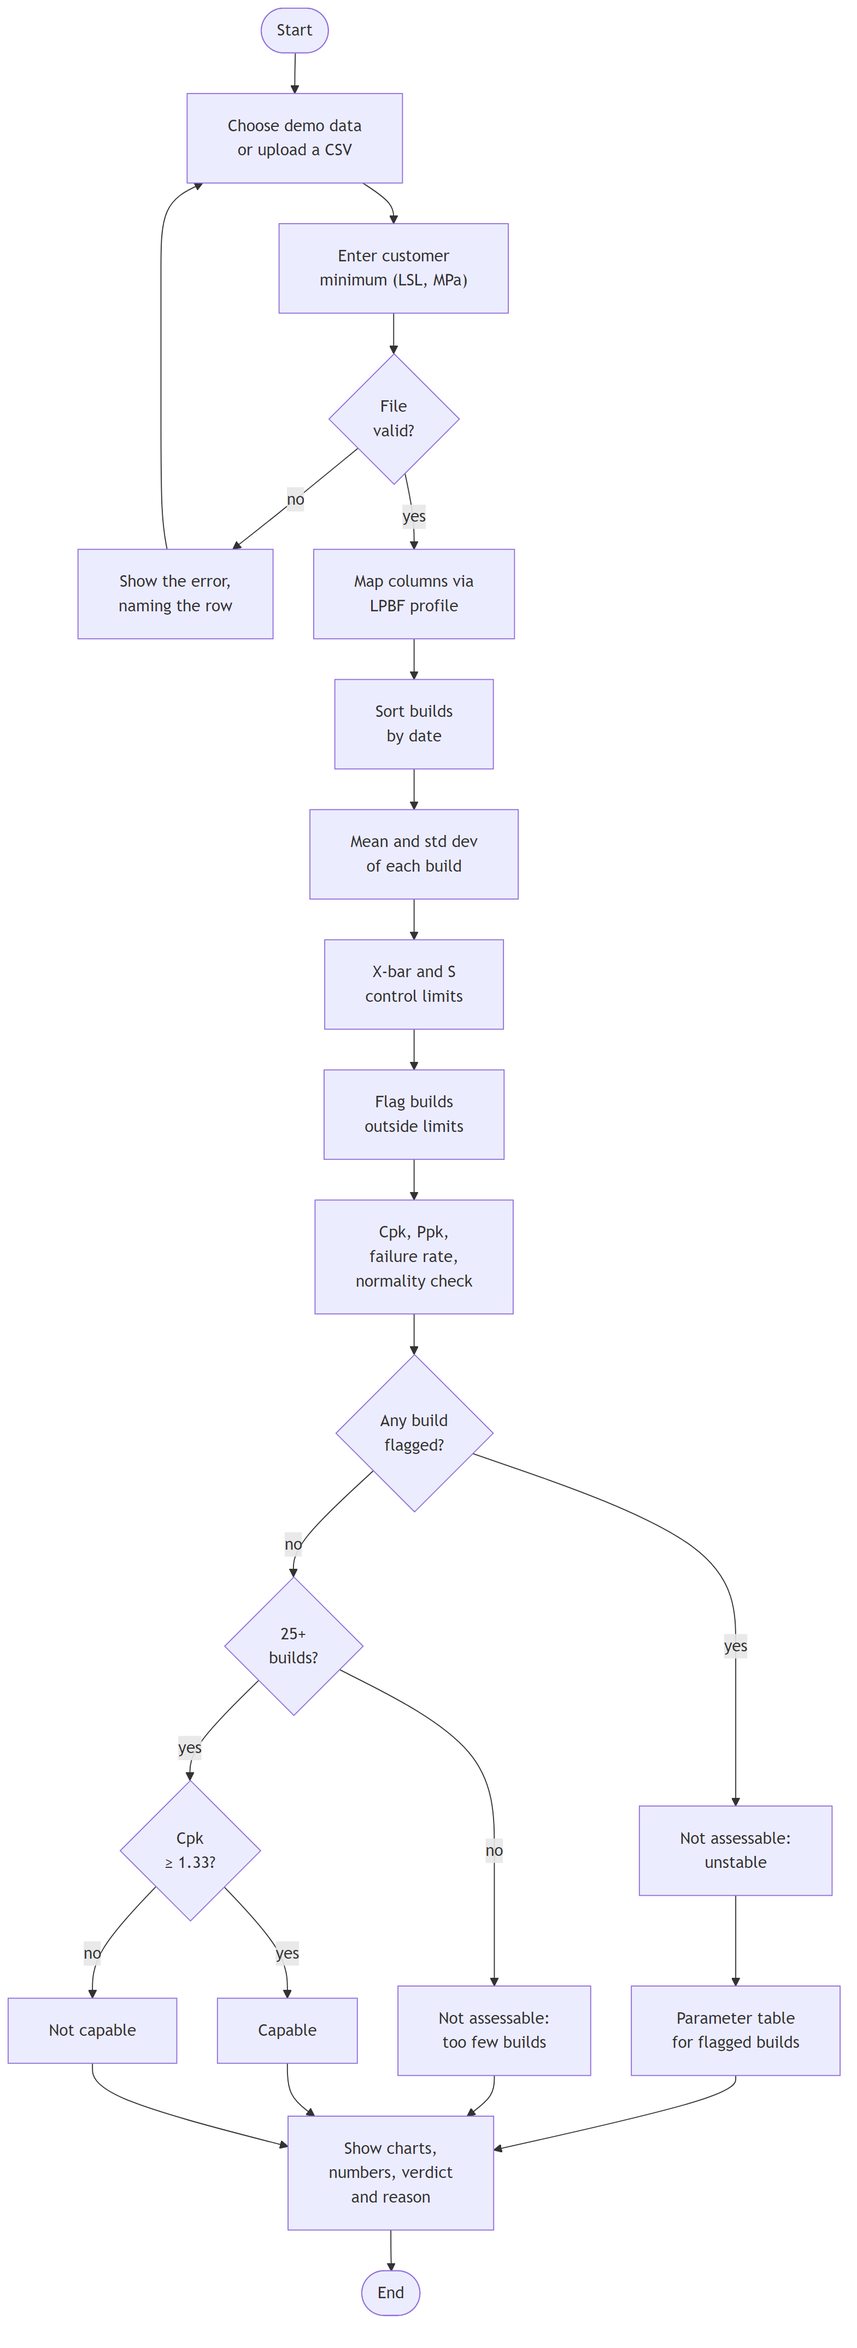
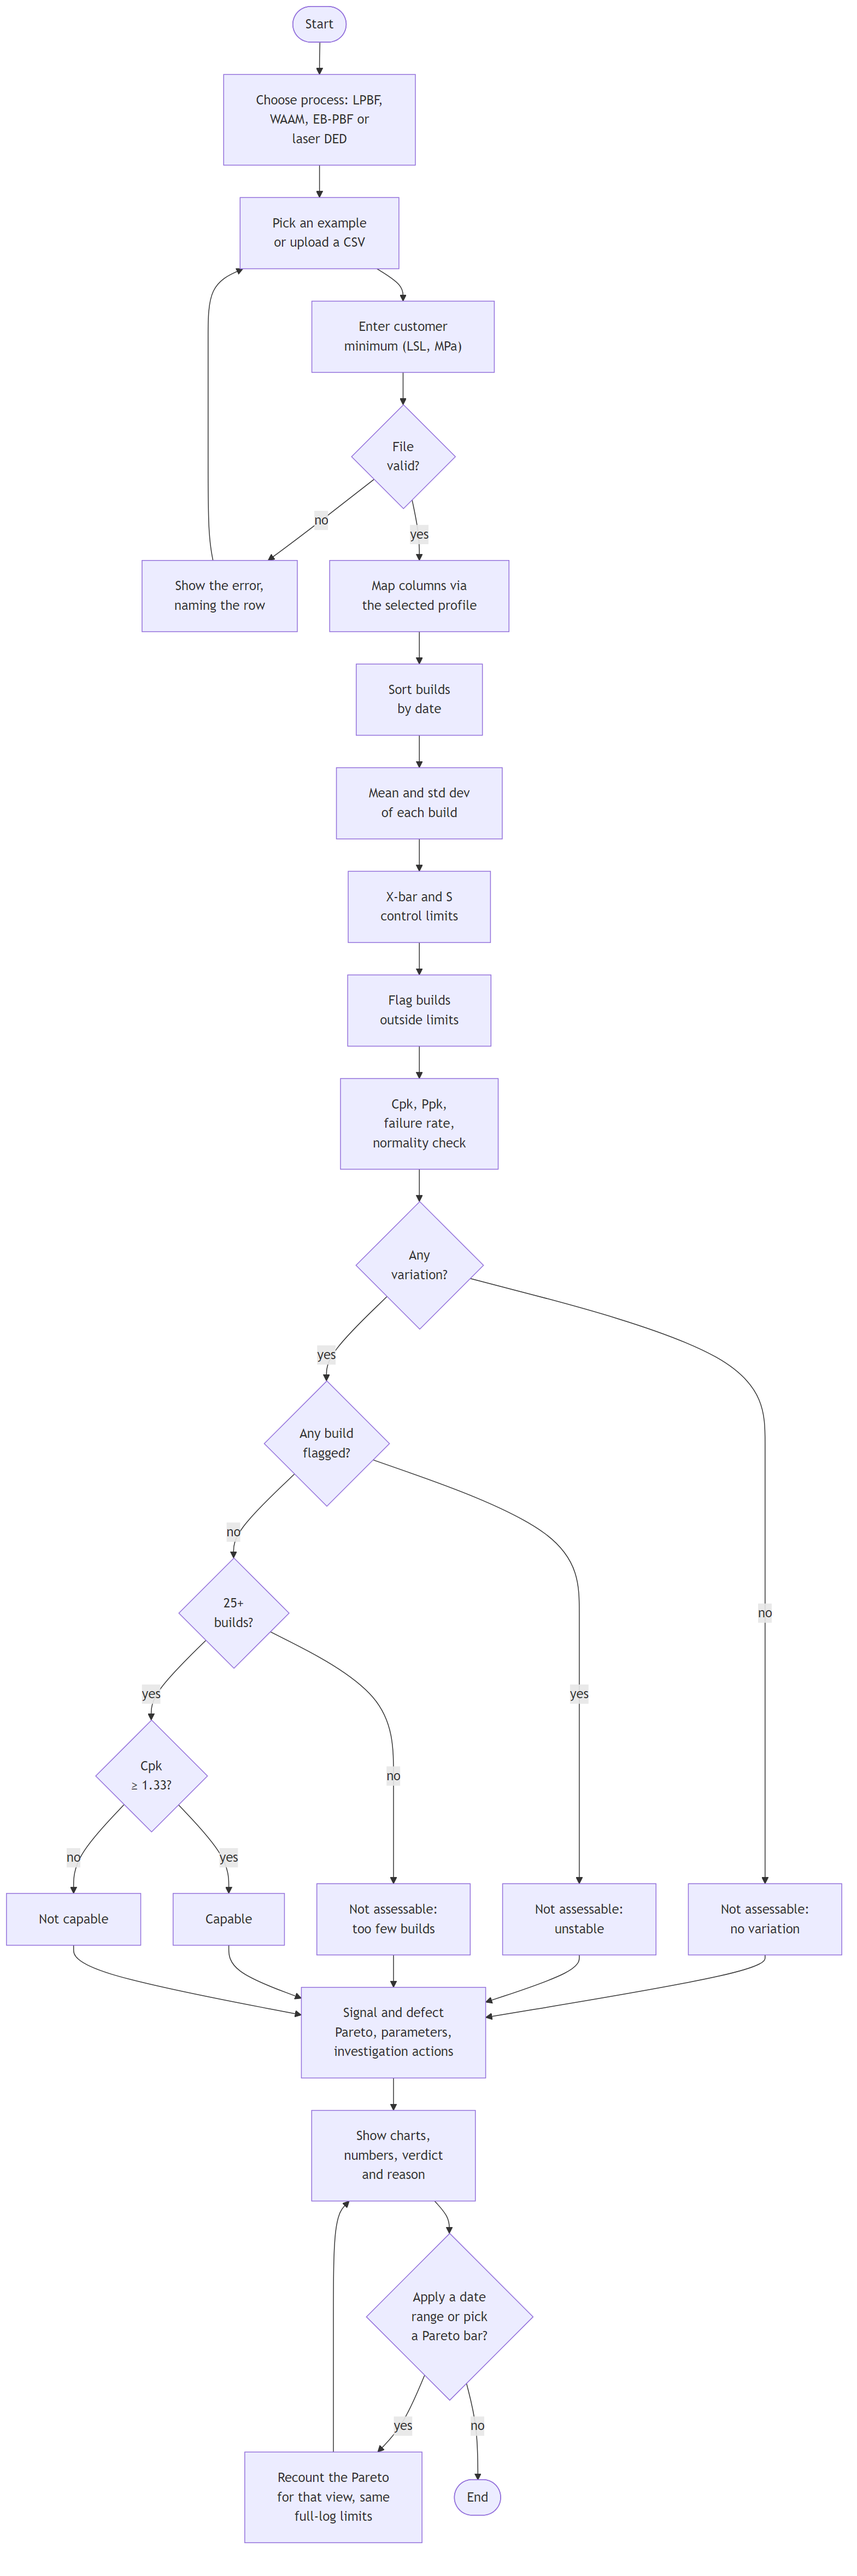
docs: update diagrams to the current app; contributions from Git history

diff --git a/docs/architecture.md b/docs/architecture.md
@@ -1,24 +1,19 @@
 # How AeroQual works
 
-## Current documentation and training surface
+Sigma Airlines · updated 2026-10-22 (release 1 plus the approved extensions H-10 to H-17)
+
+Pictures of the same app: who uses it ([use cases](#1-use-case-diagram)), what it does step by
+step ([activity diagram](#2-activity-diagram)), and which function belongs to which part of the code
+([FFBD](#3-functional-flow-block-diagram-ffbd)). [Section 4](#4-subsystems-and-who-built-them)
+maps each subsystem to its CONTRACT tasks and the teammates who built it. Details live in
+[`SPEC.md`](../SPEC.md); reasons in [`decisions.md`](decisions.md).
 
 The [offline walkthrough](../demo/slidedeck/index.html) is a documentation artifact outside `app/`.
 `demo/build_slidedeck.py` captures verified API outputs and exact synthetic CSVs into `deck-data.json`,
 then inlines the template, styles, JavaScript and data into one HTML file. It has no external library,
 network dependency or browser-side QC calculation. Actual uploads remain in the React/FastAPI app.
-The deck does not change the runtime bundle or deployment configuration. Current evidence and
-open-ended release gates are in [evaluation.md](evaluation.md) and [remaining-work.md](remaining-work.md).
-
-The diagrams below describe the original application foundation. Approved four-process/Pareto
-extensions are documented later in this file and in SPEC; original teammate mappings are historical.
-
-Sigma Airlines · release 1 · 2026-10-19
-
-Three pictures of the same app: who uses it ([use cases](#1-use-case-diagram)), what it does step by
-step ([activity diagram](#2-activity-diagram)), and which function belongs to which subsystem
-([FFBD](#3-functional-flow-block-diagram-ffbd)). The [subsystem table](#4-subsystems-and-who-builds-them)
-maps each subsystem to a CONTRACT task and a teammate. Details live in [`SPEC.md`](../SPEC.md);
-reasons in [`decisions.md`](decisions.md).
+Current evidence and open release gates are in [evaluation.md](evaluation.md) and
+[remaining-work.md](remaining-work.md).
 
 Each diagram has an image link under it, in case GitHub draws the Mermaid code badly. The images
 are exported from the code: after editing a diagram, regenerate its image with
@@ -27,81 +22,90 @@ are exported from the code: after editing a diagram, regenerate its image with
 ## 1. Use case diagram
 
 ```mermaid
-%%{init: {"flowchart": {"padding": 20, "nodeSpacing": 30, "rankSpacing": 70}}}%%
+%%{init: {"flowchart": {"padding": 20, "nodeSpacing": 22, "rankSpacing": 60}}}%%
 flowchart LR
     QE["Quality<br>engineer"]
-    JU["Judge or<br>reviewer"]
-    PE["Process engineer<br>(future)"]
 
     subgraph AQ["AeroQual"]
-        UC1(["Upload build<br>test data"])
+        direction TB
+        UC0(["Choose printing<br>process"])
+        UC1(["Upload build test<br>data or pick example"])
         UC2(["Enter customer<br>minimum strength"])
         UC3(["Check stability<br>(control charts)"])
         UC4(["Check capability<br>(Cpk, Ppk)"])
         UC5(["See coupon<br>failure rate"])
-        UC6(["Investigate<br>flagged builds"])
-        UC7(["Run the demo<br>datasets"])
-        UC8(["Add a printing<br>process profile"])
+        UC6(["Rank chart signals<br>and defects (Pareto)"])
+        UC7(["Follow investigation<br>actions"])
+        UC8(["Narrow to a<br>date range"])
+        UC9(["Run the example<br>datasets"])
+        UC10(["Work through the<br>offline tutorial"])
+        UC11(["Add a process<br>profile"])
     end
 
-    QE --- UC1
-    QE --- UC2
-    QE --- UC3
-    QE --- UC4
-    QE --- UC5
-    QE --- UC6
-    JU --- UC7
-    PE -.- UC8
-    UC7 -. includes .-> UC3
-    UC7 -. includes .-> UC4
+    JU["Judge or<br>reviewer"]
+    DEV["Developer"]
+
+    QE --- UC0 & UC1 & UC2 & UC3 & UC4 & UC5 & UC6 & UC7 & UC8
+    UC9 --- JU
+    UC10 --- JU
+    UC11 --- DEV
 ```
 
 [Open this diagram as an image](images/diagram-use-case.png)
 
-The quality engineer is the one user release 1 is built for. Judges use the same page through the
-demo datasets. Adding a process profile is a future use case (dashed); release 1 only makes it
-cheap.
+The quality engineer is the user the tool is built for. Judges use the same dashboard through the
+example datasets, or the offline tutorial. A developer adds a printing process by writing one profile
+file in `app/profiles/` and registering it; four exist (LPBF, WAAM, EB-PBF, powder-fed laser DED).
 
 ## 2. Activity diagram
 
 ```mermaid
 %%{init: {"flowchart": {"padding": 20, "nodeSpacing": 40, "rankSpacing": 40}}}%%
 flowchart TD
-    S([Start]) --> A1["Choose demo data<br>or upload a CSV"]
+    S([Start]) --> A0["Choose process: LPBF,<br>WAAM, EB-PBF or<br>laser DED"]
+    A0 --> A1["Pick an example<br>or upload a CSV"]
     A1 --> A2["Enter customer<br>minimum (LSL, MPa)"]
     A2 --> D1{"File<br>valid?"}
     D1 -- no --> E1["Show the error,<br>naming the row"]
     E1 --> A1
-    D1 -- yes --> A3["Map columns via<br>LPBF profile"]
+    D1 -- yes --> A3["Map columns via<br>the selected profile"]
     A3 --> A4["Sort builds<br>by date"]
     A4 --> A5["Mean and std dev<br>of each build"]
     A5 --> A6["X-bar and S<br>control limits"]
     A6 --> A7["Flag builds<br>outside limits"]
     A7 --> A8["Cpk, Ppk,<br>failure rate,<br>normality check"]
-    A8 --> D2{"Any build<br>flagged?"}
+    A8 --> D0{"Any<br>variation?"}
+    D0 -- no --> V0["Not assessable:<br>no variation"]
+    D0 -- yes --> D2{"Any build<br>flagged?"}
     D2 -- yes --> V1["Not assessable:<br>unstable"]
     D2 -- no --> D3{"25+<br>builds?"}
     D3 -- no --> V2["Not assessable:<br>too few builds"]
     D3 -- yes --> D4{"Cpk<br>≥ 1.33?"}
     D4 -- yes --> V3["Capable"]
     D4 -- no --> V4["Not capable"]
-    V1 --> A9["Parameter table<br>for flagged builds"]
-    A9 --> A10["Show charts,<br>numbers, verdict<br>and reason"]
-    V2 --> A10
-    V3 --> A10
-    V4 --> A10
-    A10 --> F([End])
+    V0 --> A9
+    V1 --> A9
+    V2 --> A9
+    V3 --> A9
+    V4 --> A9
+    A9["Signal and defect<br>Pareto, parameters,<br>investigation actions"] --> A10["Show charts,<br>numbers, verdict<br>and reason"]
+    A10 --> D5{"Apply a date<br>range or pick<br>a Pareto bar?"}
+    D5 -- yes --> A11["Recount the Pareto<br>for that view, same<br>full-log limits"]
+    A11 --> A10
+    D5 -- no --> F([End])
 ```
 
 [Open this diagram as an image](images/diagram-activity.png)
 
-"File valid?" checks four things: the required columns are present, no `uts_mpa` is blank, every
-build has the same number of coupons, and there are at least 2 builds. Every path ends with the
-numbers on screen. Only the verdict changes, and it always says why.
+"File valid?" checks the required columns, that no `uts_mpa` is blank or non-numeric, that every
+build has one date and the same number of coupons, that there are at least 2 builds, and that the
+data match the chosen process. Every path ends with the numbers on screen. Only the verdict
+changes, and it always says why. A date range or a Pareto selection changes only the investigation
+view: limits, Cpk, Ppk and the verdict always come from the complete file.
 
 ## 3. Functional flow block diagram (FFBD)
 
-Top level. Each block is a function; its colour is the subsystem that owns it (section 4).
+Top level. Each block is a function; its colour is the part of the code that owns it.
 
 ```mermaid
 %%{init: {"flowchart": {"padding": 20, "nodeSpacing": 30, "rankSpacing": 40}}}%%
@@ -110,20 +114,26 @@ flowchart LR
     F2 --> F3["3.0<br>Map via<br>profile"]
     F3 --> F4["4.0<br>Compute<br>statistics"]
     F4 --> F5["5.0<br>Decide<br>verdict"]
-    F5 --> F6["6.0<br>Investigation<br>table"]
+    F5 --> F6["6.0<br>Investigation<br>evidence"]
     F6 --> F7["7.0<br>Display<br>results"]
+    F7 -. optional .-> F8["8.0<br>Filtered<br>view"]
+    F8 -.-> F7
 
     classDef ui fill:#e7f1fb,stroke:#4a78b5,color:#000
     classDef api fill:#f9eeda,stroke:#b5874a,color:#000
     classDef stats fill:#e5f4e4,stroke:#4a9a52,color:#000
+    classDef helper fill:#f0e9f7,stroke:#7a5aa8,color:#000
     class F1,F7 ui
-    class F2,F3,F6 api
+    class F2,F3 api
     class F4,F5 stats
+    class F6,F8 helper
 ```
 
 [Open this diagram as an image](images/diagram-ffbd.png)
 
-Blue = front end · amber = API and profile · green = statistics engine.
+Blue = front end (`app/frontend/`) · amber = API and process profiles (`app/app.py`,
+`app/profiles/`) · green = statistics engine (`app/qc.py`) · purple = descriptive investigation
+helpers (plain Python, no new statistics).
 
 Function 4.0 broken down (all inside `app/qc.py`, no web code):
 
@@ -145,26 +155,55 @@ flowchart LR
 The constants in 4.2 are c4, A3, B3 and B4, computed from the number of coupons per build. The
 normality check in 4.7 is a Shapiro-Wilk test.
 
-## 4. Subsystems and who builds them
+Functions 6.0 and 8.0 broken down. They count and describe; they never change a limit or an index:
 
-| Subsystem | Functions | CONTRACT task | Files it owns | Teammate |
+```mermaid
+%%{init: {"flowchart": {"padding": 20, "nodeSpacing": 30, "rankSpacing": 50}}}%%
+flowchart LR
+    R["5.0<br>Verdict and<br>full-log limits"] --> H1["6.1<br>Signal Pareto<br>signals.py"]
+    R --> H2["6.2<br>Inspection Pareto<br>inspection.py"]
+    R --> H3["6.3<br>Parameter summary<br>app.py"]
+    R --> H4["6.4<br>Investigation actions<br>investigation.py"]
+    H1 --> H5["8.0<br>Date-window and<br>selection views<br>pareto_view.py"]
+    H2 --> H5
+
+    classDef stats fill:#e5f4e4,stroke:#4a9a52,color:#000
+    classDef helper fill:#f0e9f7,stroke:#7a5aa8,color:#000
+    class R stats
+    class H1,H2,H3,H4,H5 helper
+```
+
+[Open this diagram as an image](images/diagram-ffbd-investigation.png)
+
+## 4. Subsystems and who built them
+
+| Subsystem | Functions | CONTRACT tasks | Main files | Built by |
 |---|---|---|---|---|
-| Statistics engine | 4.0, 5.0 | H-03 | `app/qc.py`, `tests/` | A |
-| Test data and codebook | test inputs for 1.0 | H-02 | `data/` | B |
-| API and process profile | 2.0, 3.0, 6.0 | H-04 | `app/` except A's files | C |
-| Front end and demo | 1.0, 7.0 | H-05 | `app/frontend/`, `demo/` | D |
-| Deploy | public URL | H-06 | `.github/`, `app/manifest.json` | C |
-| Docs and submission | README, repo check, Devpost | H-07, H-08 | `README.md`, `app/README.md`, `.gitignore` | B |
+| Statistics engine | 4.0, 5.0 | H-03, H-17 | `app/qc.py`, `tests/` | Zaur Babayev (engine, known-answer tests); Cameron Archibald (input safeguards) |
+| Investigation helpers | 6.0, 8.0 | H-11, H-12, H-14 | `app/signals.py`, `app/inspection.py`, `app/investigation.py`, `app/pareto_view.py` | Cameron Archibald |
+| Test data and codebook | test inputs for 1.0 | H-02, H-10, H-13, H-14 | `data/` | robertwarnold (first three LPBF datasets, codebook); Cameron Archibald (WAAM, EB-PBF, laser DED and inspection datasets) |
+| API and process profiles | 2.0, 3.0 | H-04, H-10, H-13 | `app/app.py`, `app/profiles/` | Zaur Babayev (API, LPBF profile); robertwarnold (dashboard serving); Cameron Archibald (process selection, three profiles) |
+| Front end and demo | 1.0, 7.0 | H-05, H-15, H-16 | `app/frontend/`, `demo/` | robertwarnold (first dashboard, walkthrough); Cameron Archibald (redesign, Pareto views, tutorial, brief) |
+| Deploy | public URL | H-06, H-09 | `.github/`, `app/manifest.json` | robertwarnold (bundle and check tooling); Zaur Babayev (push-to-deploy, first live deploy, verification); Cameron Archibald (cross-platform fixes) |
+| Docs and submission | README, repo check, Devpost | H-01, H-07, H-08 | `SPEC.md`, `PROJECT_OVERVIEW.md`, `README.md`, `app/README.md`, `docs/`, `.gitignore` | Cameron Archibald (first project overview; later README and guide updates); Zaur Babayev (SPEC, plan, decisions, diagrams, team guide); Jerry Su (first AeroQual README, function reference, `.gitignore`, H-07/H-08) |
 
-**The two interfaces everyone builds against**, agreed first and written in `docs/plan.md`:
+In each row, names are listed in the order each person started on that subsystem. Every teammate worked with AI coding agents.
+The table comes from the Git history and [`CONTRACT.yaml`](../CONTRACT.yaml), so it shows committed
+work only: reviews, testing, planning and discussion in the team chat do not appear here. If it
+misses your work, correct this table.
 
-1. **Data columns** (between B, C and A): `build_id`, `build_date`, `uts_mpa`, plus the optional
-   LPBF parameters. SPEC section 3.
-2. **What `qc.py` returns** (between A, C and D): one result object with the per-build points,
-   the limits, Cpk, Ppk, the failure rate, the flags, the verdict and its reason. C passes it
-   through the API as JSON; D draws it.
+**The two interfaces everyone built against**, agreed first and written in `docs/plan.md`:
 
-With those two fixed, all four can work at once:
+1. **Data columns:** `build_id`, `build_date`, `uts_mpa`, plus the optional parameters of the
+   selected process profile. SPEC section 3.
+2. **What `qc.py` returns:** one result object with the per-build points, the limits, Cpk, Ppk,
+   the failure rate, the flags, the verdict and its reason. The API adds the investigation helpers'
+   output and passes it on as JSON; the front end draws it.
+
+### Original work plan (Oct 19, historical)
+
+Before anyone claimed tasks, the plan split the work into four parallel roles (A to D). Teammates
+then claimed tasks freely, so the roles below do not show who did what; the table above does.
 
 ```mermaid
 %%{init: {"flowchart": {"padding": 20, "nodeSpacing": 30, "rankSpacing": 50}}}%%
